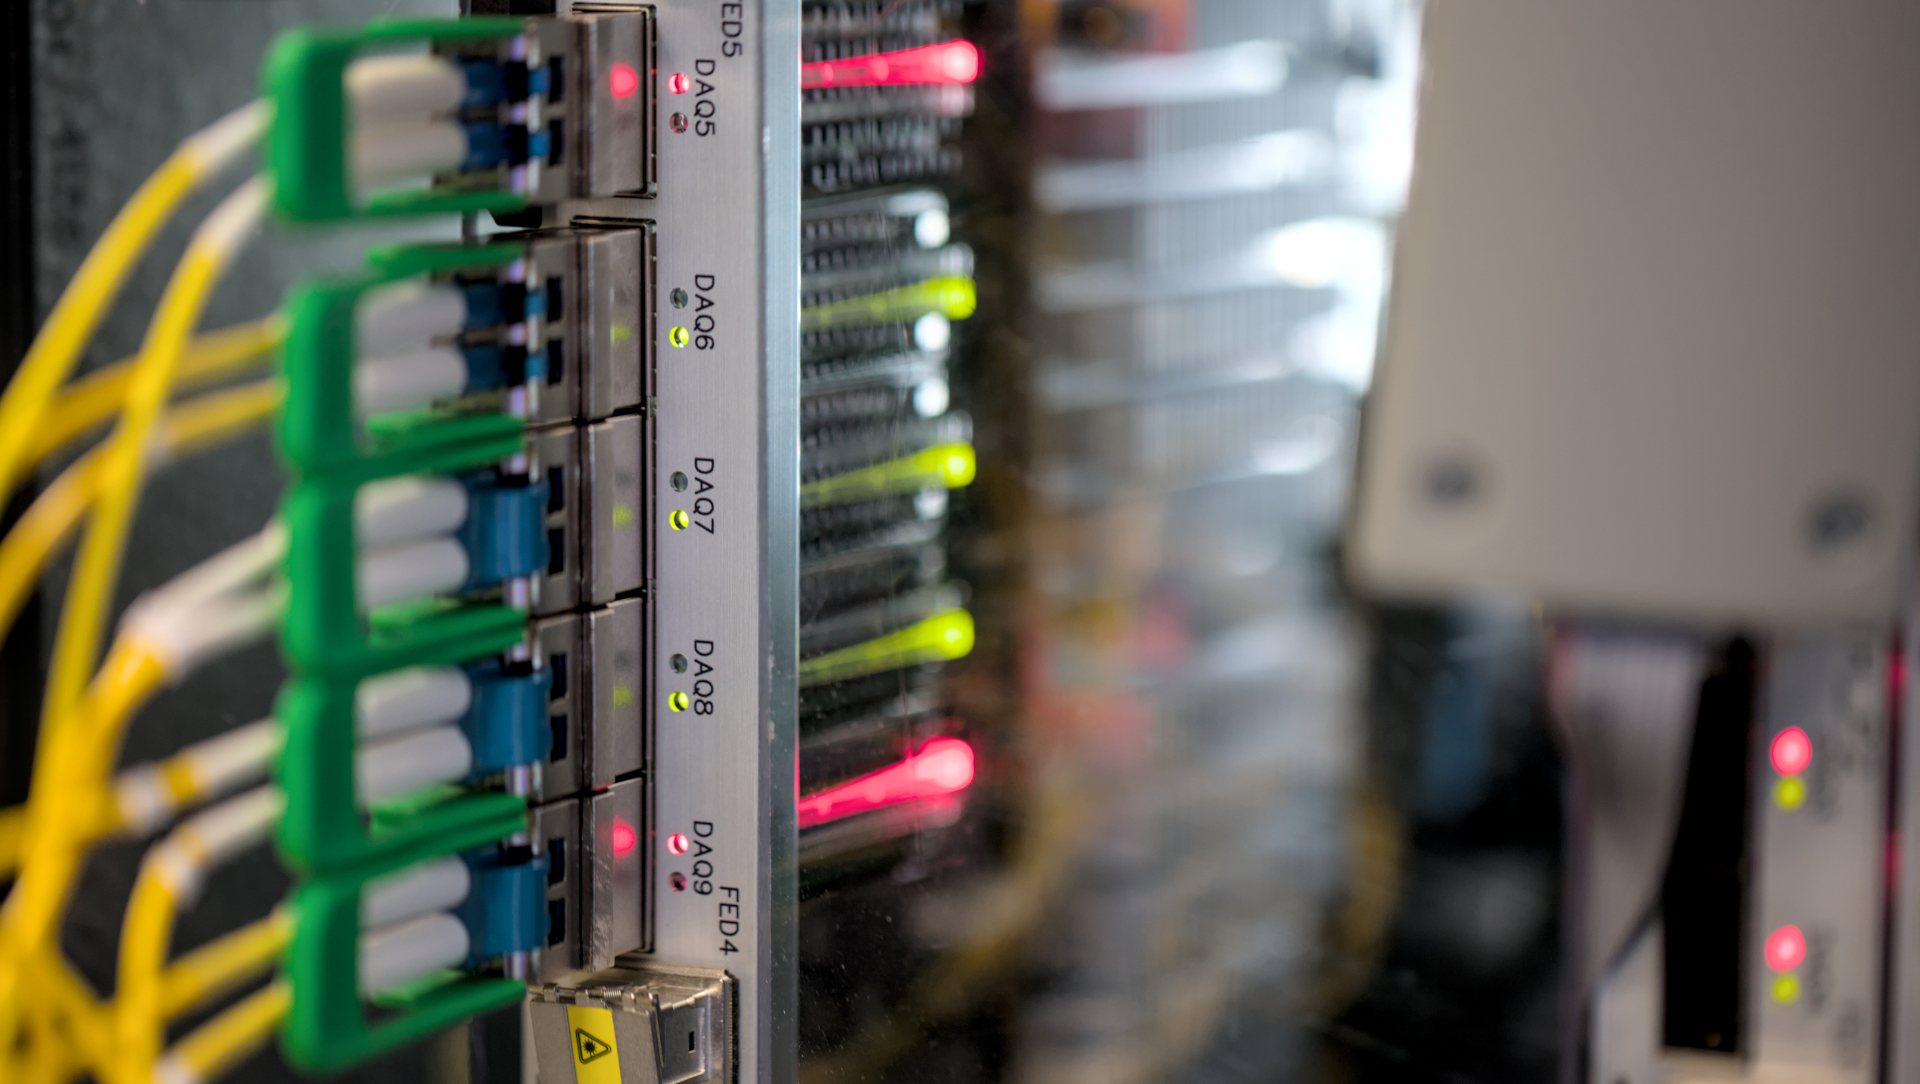
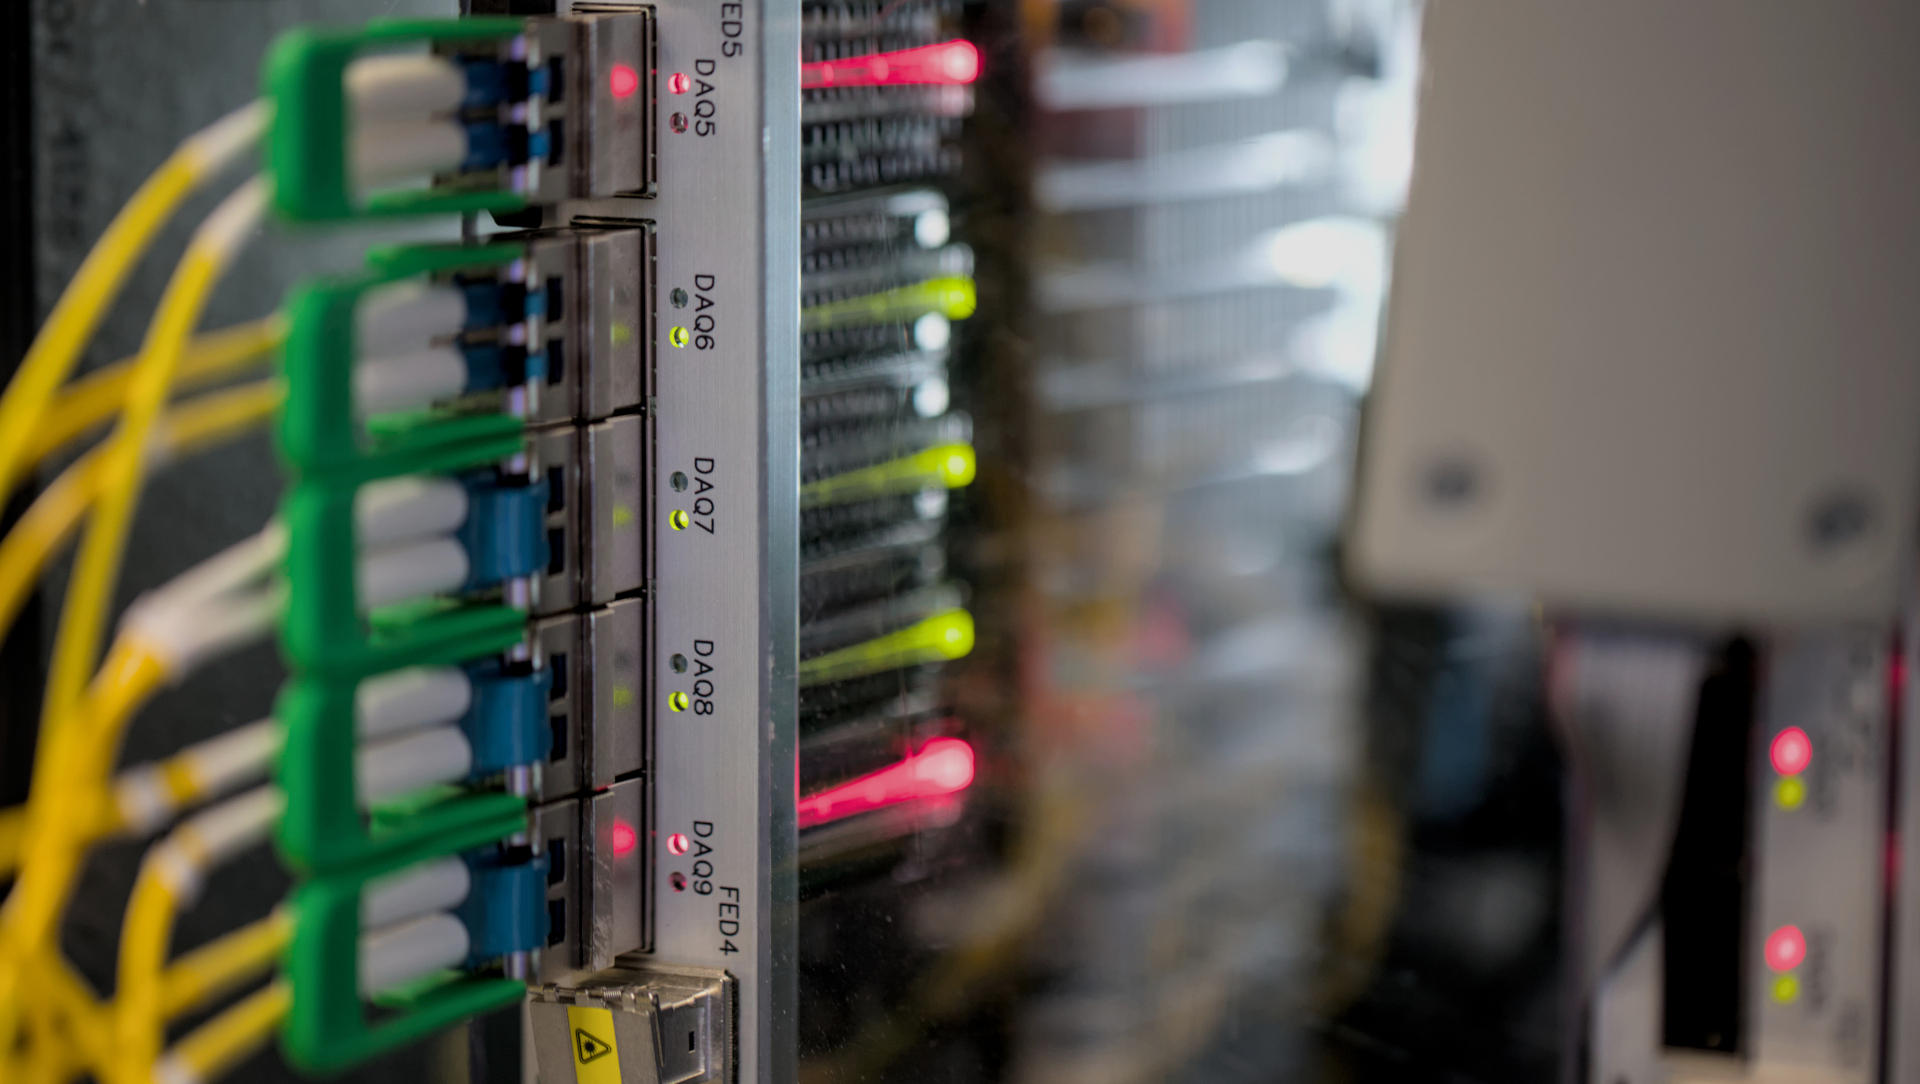
feat: things for tsn presentation

diff --git a/2026_06_19_reliable_spacecraft/index.html b/2026_06_19_reliable_spacecraft/index.html
@@ -40,7 +40,6 @@
                     <div class="half-part">
                         &nbsp;
                     </div>
-                    <!-- TODO: make cern image darker -->
                     <div class="half-part">
                         <h2>Trustworthy Embedded Systems for Spaceflight</h2>
                     </div>
@@ -54,7 +53,7 @@
                             <!-- the right combination of architectural ﬂexibility and equipping the ﬂight software -->
                             <!-- with the proper decision making power to avoid depending on a human operator -->
                             <!-- to decide what to do. -->
-                            <li>Expensive (9-figure launch price [2])</li>
+                            <li>Expensive (9-figures launch [2])</li>
                             <li>Real-time: bounded latency required</li>
                             <li>Largely autonomous: too fast, too deadly for humans</li>
                         </ul>
@@ -62,6 +61,17 @@
                     <div class="half-part">
                         <ul>
                             <li>Example: New Glenn static fire [3]
+                            </li>
+                        </ul>
+
+                        <ul class="references" style="margin-top: 300px">
+                            <li>[1] I. Chechile, Space Technology A Short Introduction</li>
+                            <li>[2] <a
+                                    href="https://arstechnica.com/space/2023/10/oops-it-looks-like-the-ariane-6-rocket-may-not-offer-europe-any-launch-savings/">ars
+                                    Technica, Oops—It looks like the Ariane 6 rocket may not offer Europe any launch
+                                    savings</a></li>
+                            <li>[3] <a href="https://www.youtube.com/watch?v=1O90WZJALYc">Spaceflight now, New Glenn
+                                    Anomaly</a>
                             </li>
                         </ul>
                     </div>
@@ -81,7 +91,7 @@
                 <section>
                     <h3>Sub-Projects</h3>
                     <ol>
-                        <li>kicad_firmware_<br />generation</li>
+                        <li>Generate Firmware from KiCad</li>
                         <li>TSN for Spacecraft</li>
                         <li>Zephyr on Casio</li>
                     </ol>
@@ -99,13 +109,16 @@
                     </div>
                 </section>
                 <section>
-                    <h2>kicad_firmware_generation</h2>
+                    <h2>Generate Firmware from KiCad</h2>
                     <h4>state of the art</h4>
                     <div class="half-part">
                         <ul>
-                            <li>Generate Group Netlist from KiCad schematics</li>
-                            <li>Generate code from Group Netlist</li>
-                            <li>Implement for KiCad v9</li>
+                            <li><a
+                                    href="https://github.com/DLR-RY/kicad_firmware_generation/">github.com/DLR-RY/kicad_firmware_generation</a>
+                            </li>
+                            <!-- <li>Generate Group Netlist from KiCad schematics</li> -->
+                            <!-- <li>Generate code from Group Netlist</li> -->
+                            <li>Implemented for KiCad v9</li>
                             <li>Applied in PCDU development process;<br />found electrical design fault</li>
                         </ul>
                     </div>
@@ -115,7 +128,7 @@
                 </section>
                 <section>
                     <h2>kicad_firmware_generation</h2>
-                    <h4>Goal of PdF</h4>
+                    <h4>goal of PdF</h4>
                     <div class="half-part">
                         <ul>
                             <li>Port to KiCad v10</li>
@@ -220,13 +233,17 @@
                 </section>
                 <section>
                     <h2>Ring Topology</h2>
-                    <ul>
-                        <li>TODO: ring topology diagram</li>
-                        <li>Single Failure Criterion redundancy: "carrying out its mission in spite of the failure
-                            of any single component" (US Nuclear Regulatory Commission 1977)</li>
-                        <li>Goal: Validate TSN for use in spacecraft</li>
-                        <li>Goal: Build a demonstrator</li>
-                    </ul>
+                    <div class="half-part">
+                        <ul>
+                            <li>Single Failure Criterion redundancy: "carrying out its mission in spite of the failure
+                                of any single component" (US Nuclear Regulatory Commission 1977)</li>
+                            <li>Goal: Validate TSN for use in spacecraft</li>
+                            <li>Goal: Build a demonstrator</li>
+                        </ul>
+                    </div>
+                    <div class="half-part">
+                        <img src="./images/ring.svg" width="800" />
+                    </div>
                 </section>
                 <!-- <section> -->
                 <!--     <h2>Linux TSN Support</h2> -->
@@ -308,7 +325,8 @@
                     <h3>Skills Needed</h3>
                     <ul>
                         <li>Linux (PREEMPT_RT) internals</li>
-                        <li>Zephyr application, driver development (no prior experience)</li>
+                        <li>Linux networking</li>
+                        <li>Zephyr application, driver development</li>
                     </ul>
                 </section>
             </section>
@@ -410,20 +428,6 @@
                             </li>
                         </ol>
                     </div>
-                </section>
-
-                <section>
-                    <h3>References</h3>
-                    <ul>
-                        <li>[1] I. Chechile, Space Technology A Short Introduction</li>
-                        <li>[2] <a
-                                href="https://arstechnica.com/space/2023/10/oops-it-looks-like-the-ariane-6-rocket-may-not-offer-europe-any-launch-savings/">ars
-                                Technica, Oops—It looks like the Ariane 6 rocket may not offer Europe any launch
-                                savings</a></li>
-                        <li>[3] <a href="https://www.youtube.com/watch?v=1O90WZJALYc">Spaceflight now, New Glenn
-                                Anomaly</a>
-                        </li>
-                    </ul>
                 </section>
             </section>
         </div>

diff --git a/2026_06_19_reliable_spacecraft/style.css b/2026_06_19_reliable_spacecraft/style.css
@@ -24,3 +24,7 @@
 .dark-background li {
     color: white;
 }
+
+.references li {
+    font-size: 20px;
+}
